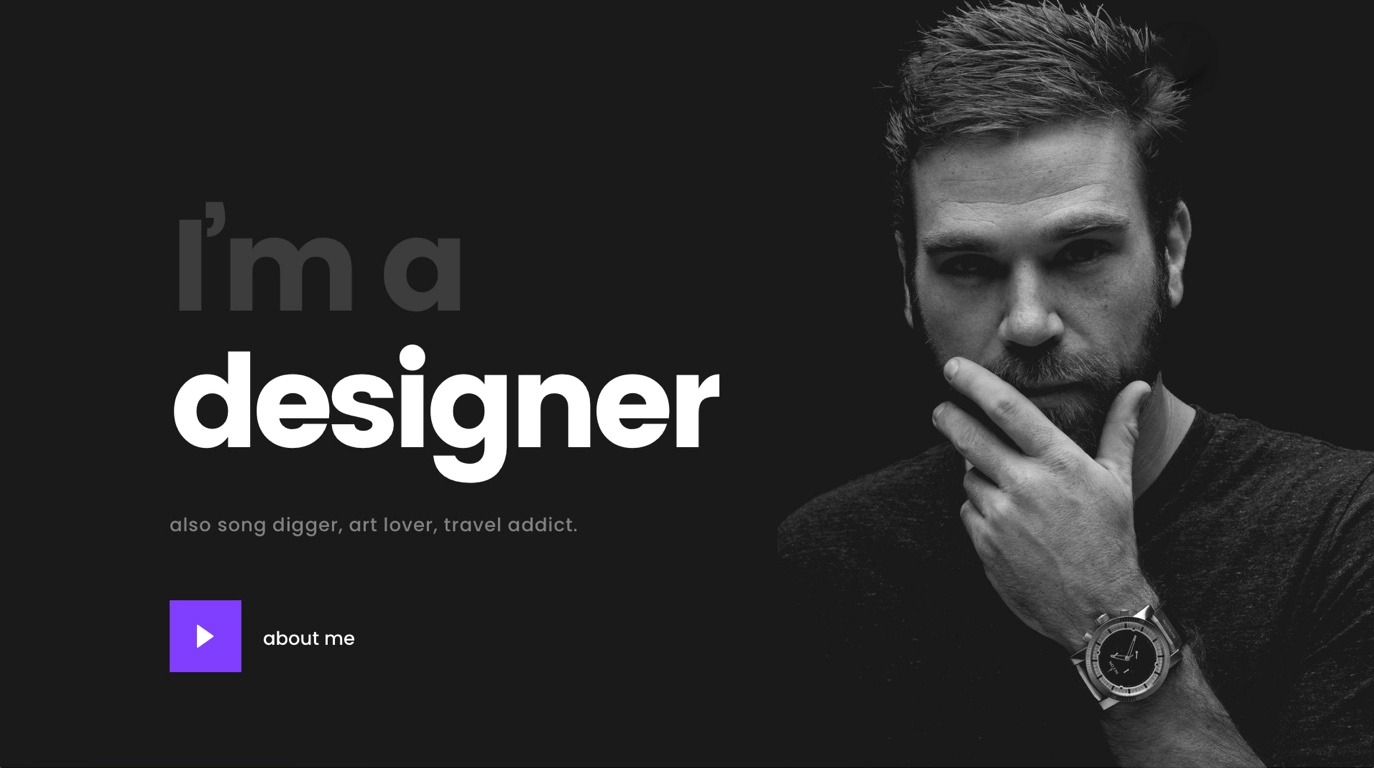
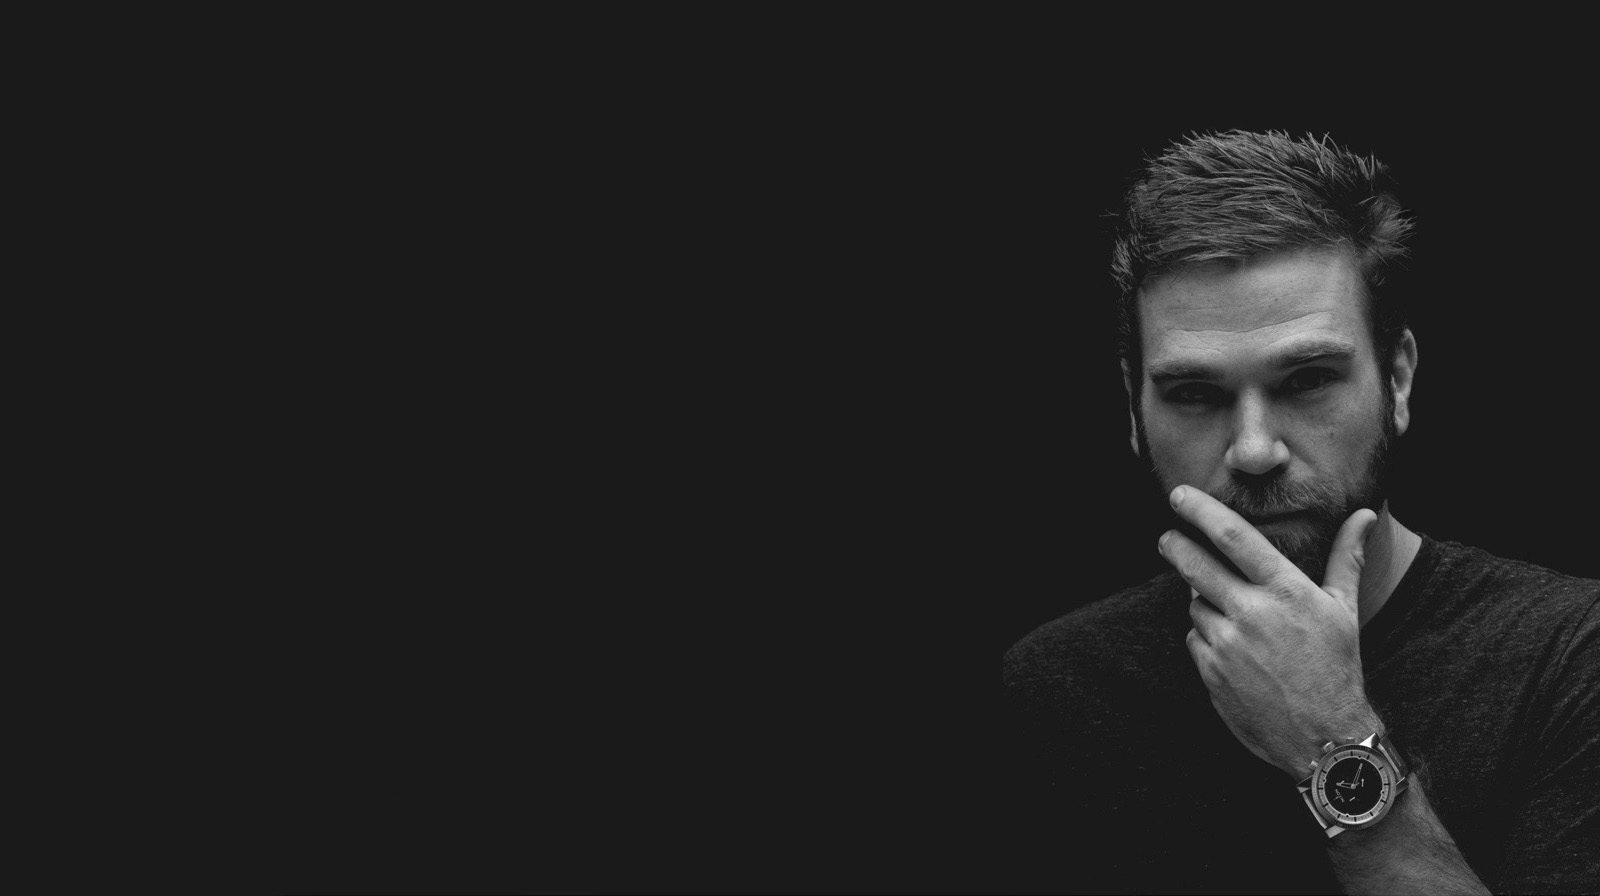
creando la hero section v0.1

diff --git a/src/components/Hero_Section.tsx b/src/components/Hero_Section.tsx
@@ -1,19 +1,32 @@
 import heroImage from "../assets/hero1.jpg"
 
+
 const Hero = () => {
     
     return (
-        <div className="hero min-h-screen" style={{ backgroundImage: `url(${heroImage})` }}>
-        <div className="hero-overlay bg-opacity-60"></div>
-        <div className="hero-content text-neutral-content border-2">
-            <div className="max-w-md">
-                <p className="mb-5 text-9xl font-bold">I'm a</p>
-                <p className="mb-5 text-9xl font-bold">web developer</p>
-                <p className="mb-5">Also passiones about video games.</p>
-                <button className="btn btn-primary">Get Started</button>
+        <div className="text-light vh-100">
+
+            <div className="hero-bg-image">
+                {/* <div className="bg-black opacity-50"></div>
+                <img className="hero-img" src={heroImage} /> */}
             </div>
+
+            <div className="hero-text">
+                <h2 className="bigger-text main-text-first-line">I'm a</h2>
+                <h2 className="bigger-text mt-2">web developer</h2>
+                <p className="mt-3">Also passioned about video games.</p>
+
+                <div className="mt-4 position-relative">
+                    <button className="btn btn-outline-primary d-flex align-items-center">
+                        <i className="bi bi-question-circle fs-2 text-light pe-2"></i>
+                        sobre mi
+                    </button>
+                    <p className="position-absolute fixed-top mt-3 ms-5"></p>
+                </div>
+            </div>
+
         </div>
-        </div>
+        
     )
 
 }

diff --git a/src/css/hero-section.css b/src/css/hero-section.css
@@ -1,0 +1,39 @@
+.hero-bg-image {
+   /* Use "linear-gradient" to add a darken background effect to the image (photographer.jpg). This will make the text easier to read */
+   background-image: linear-gradient(rgba(0, 0, 0, 0.5), rgba(0, 0, 0, 0.5)), url("../assets/hero1.jpg");
+
+   /* Set a specific height */
+   height: 50%;
+ 
+   /* Position and center the image to scale nicely on all screens */
+   background-position: center;
+   background-repeat: no-repeat;
+   background-size: cover;
+   position: relative;
+}
+
+.bigger-text {
+  /* font-size: 10vw; */
+  font-weight: bold;
+  /* letter-spacing: -.1rem; */
+}
+
+.hero-text {
+  text-align: left;
+  position: absolute;
+  top: 50%;
+  /* left: 38%; */
+  /* transform: translate(-50%, -50%); */
+}
+
+h2 {
+  margin: -1rem 0;
+}
+.main-text-first-line { color: rgb(58, 57, 57); }
+
+.about-me-btn {
+  width: 4rem;
+  height: 4rem;
+  border-radius: 0;
+  background-color: purple;
+}

diff --git a/src/main.tsx b/src/main.tsx
@@ -1,10 +1,12 @@
 import React from 'react'
 import ReactDOM from 'react-dom/client'
 import App from './App'
+
 import 'bootstrap/dist/css/bootstrap.min.css';
 import 'bootstrap/dist/js/bootstrap.bundle.min';
 import "bootstrap-icons/font/bootstrap-icons.css";
-import './css/override-boostrap.css';
+import './index.css';
+
 
 ReactDOM.createRoot(document.getElementById('root') as HTMLElement).render(
   <React.StrictMode>

diff --git a/src/App.tsx b/src/App.tsx
@@ -11,18 +11,7 @@ function App() {
   return (
     <>
       <MainNavBar />
-      
-      <div className="container mt-2 d-flex justify-content-end">
-        {/* <Languages /> */}
-        
-      </div>
-      
-
-      {/* <Hero />
-
-      <NotifTest />
-
-      <Footer /> */}
+      <Hero />
     </>
   )
 }

diff --git a/src/css/variables.css b/src/css/variables.css
@@ -1,0 +1,6 @@
+@import url('https://fonts.googleapis.com/css2?family=Ubuntu:ital,wght@0,300;0,400;0,500;0,700;1,300&display=swap');
+
+
+:root {
+  --ffamily: 'Ubuntu', sans-serif;
+}

diff --git a/src/css/App.css b/src/css/App.css
@@ -1,0 +1,4 @@
+@import './hero-section.css';
+@import './override-boostrap.css';
+@import './custom.css';
+@import './variables.css';

diff --git a/src/css/custom.css b/src/css/custom.css
@@ -1,0 +1,5 @@
+
+body {
+  font-family: var(--ffamily)!important;
+  background-color: #2F2F2F;
+}

diff --git a/src/index.css b/src/index.css
@@ -1,0 +1,1 @@
+@import './css/App.css';
